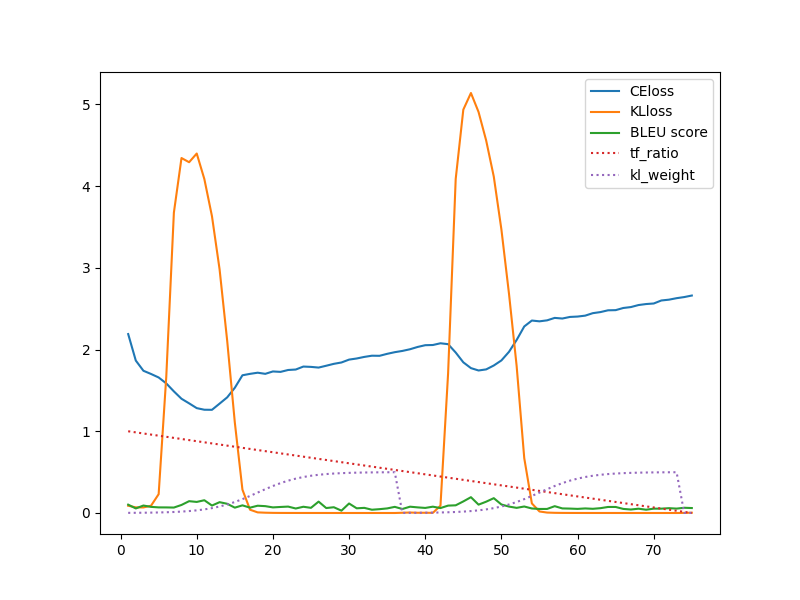
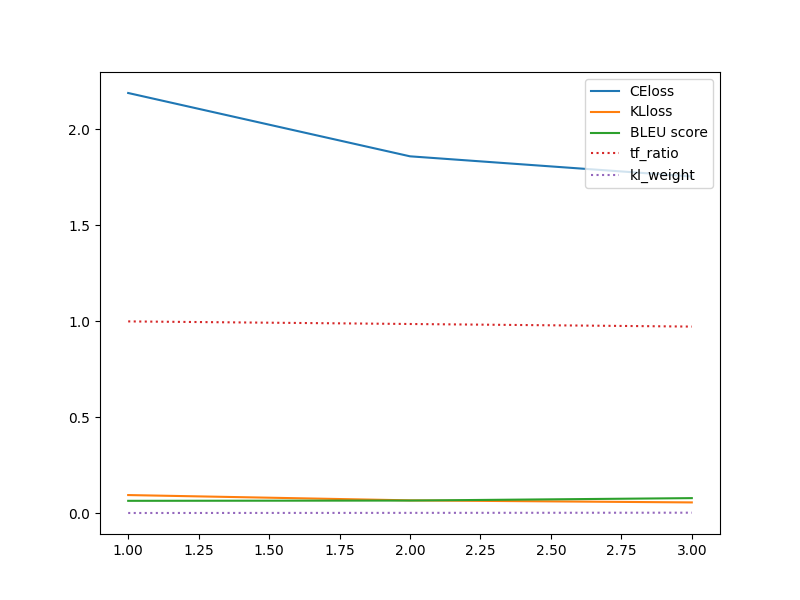
@@

diff --git a/hw5/hw5_new.py b/hw5/hw5_new.py
@@ -154,7 +154,7 @@ class DecoderRNN(nn.Module):
 	def forward(self, input_seq, hidden, cell):
 		out, (h_n, c_n) = self.lstm(input_seq, (hidden, cell) )
 		output = self.out(out[0])
-		output = self.softmax(output)
+		# output = self.softmax(output)
 		return output.to(device), out, (h_n, c_n) # output-> prob. distrubution ; out -> latant
 
 	def condition(self, c):
@@ -173,7 +173,7 @@ condition_size = 8
 teacher_forcing_ratio = 0.5
 KLD_weight = 0.5
 LR = 0.05
-epochs = 500
+epochs = 1000
 KL_cost_annealing = 'cyclical' # or 'monotonic'
 
 encoder = EncoderRNN(word_size, hidden_size, latent_size, num_condition, condition_size).to(device)
@@ -351,21 +351,21 @@ if __name__=='__main__':
 	# scaler = torch.cuda.amp.GradScaler()
 	for epoch in range(1, epochs+1):
 
-		if KL_cost_annealing == 'cyclical':
-			tmp = epoch%10
-			if tmp < 5 : kld_w = 4
-			else: kld_w = tmp*0.8
-		if KL_cost_annealing == 'monotonic':
-			if epoch < epochs*0.5 : kld_w = 1
-			else : kld_w = 1-(epoch-epochs*0.5)/(epochs*0.5)
-		# kld_w = get_kl_weight(epoch,epochs,'cycle',1)
+		# if KL_cost_annealing == 'cyclical':
+		# 	tmp = epoch%10
+		# 	if tmp < 5 : kld_w = 4
+		# 	else: kld_w = tmp*0.8
+		# if KL_cost_annealing == 'monotonic':
+		# 	if epoch < epochs*0.5 : kld_w = 1
+		# 	else : kld_w = 1-(epoch-epochs*0.5)/(epochs*0.5)
+		kld_w = get_kl_weight(epoch,epochs,'cycle',2)
 
 
 		# tfr = 1.-(1./epochs)*epoch if epoch % 2 ==0  else 0
-		# tfr = 1.-(1./epochs)*epoch
-		if epoch < epochs*0.1 : tfr = 0.9
-		else :
-			tfr = max(0.9-(1./epochs)*epoch, 0)
+		tfr = 1.-(1./epochs)*epoch
+		# if epoch < epochs*0.1 : tfr = 0.9
+		# else :
+		# 	tfr = max(0.9-(1./epochs)*epoch, 0)
 
 		encoder.train()
 		decoder.train()
@@ -383,7 +383,7 @@ if __name__=='__main__':
 			encoder_optimizer.zero_grad()
 			_, _, _, z, mean, logvar = encoder(inputs, c)
 			use = True if random.random() < tfr else False
-			outputs, _ = use_decoder(z, c, inputs, use_teacher_forcing=use) #inputs = ground truth
+			outputs, entropy_loss = use_decoder(z, c, inputs, use_teacher_forcing=use) #inputs = ground truth
 			#
 			# outputs_onehot = torch.max(torch.softmax(outputs, dim=1), 1)[1]
 			# inputs_str = train_dataset.chardict.stringFromLongtensor(inputs, check_end=True)
@@ -394,7 +394,7 @@ if __name__=='__main__':
 			output_length = outputs.size(0)
 			# CrossEntropyLoss Input: (N, C)(N,C) where C = number of classes
 			# CrossEntropyLoss Target: (N)
-			entropy_loss = criterion(outputs, inputs[1:1+output_length].to(device))
+			# entropy_loss = criterion(outputs, inputs[1:1+output_length].to(device))
 
 			kld_loss = KL_loss(mean, logvar)
 			# # NEW

diff --git a/hw5/main.py b/hw5/main.py
@@ -20,7 +20,7 @@ hidden_size = 256  # LSTM hidden size
 latent_size = 32
 conditional_size = 8
 LR = 0.05
-epochs = 75
+epochs = 1000
 kl_annealing_type='cycle'  # 'monotonic' or 'cycle'
 time = 2
 batch_size = 1
@@ -48,6 +48,7 @@ if __name__=='__main__':
 
     print('~~~ START ~~~')
     for epoch in range(1,epochs+1):
+        if epoch > 100:break
         """
         train
         """
